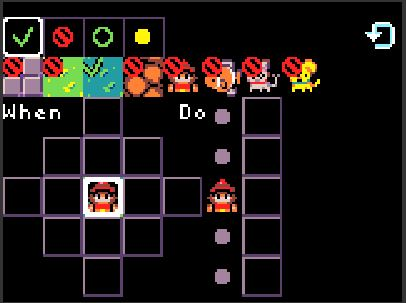
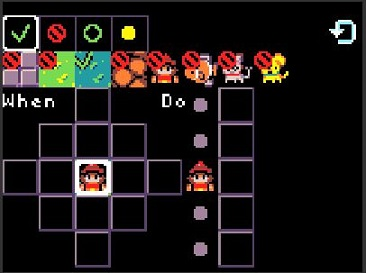
water under player

diff --git a/manual.md b/manual.md
@@ -148,13 +148,9 @@ The player can't swim, so we'll encode a rule that ends the game if the player e
 
 ![player resting](pics/restingPlayer.JPG)
 
+Select the space that the player is on and then select the water tile, which will apply the include flag (green check) to the that tile, as shown below.
 
-
-
-
-
-
-
+![water under player](pics/waterUnderPlayer.JPG)
 
 
 # Rule Evaluation
